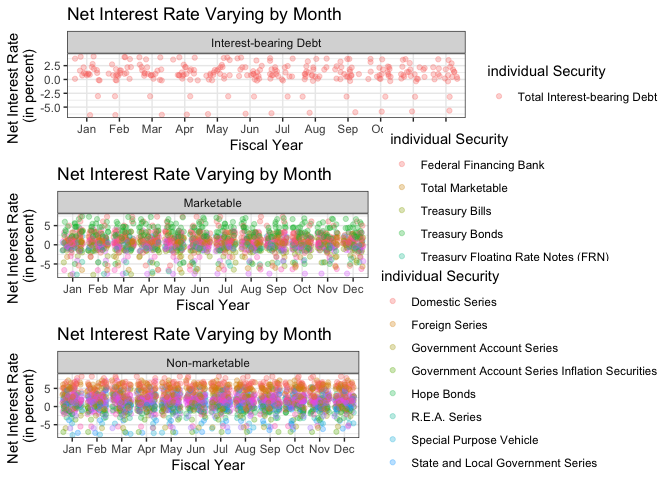
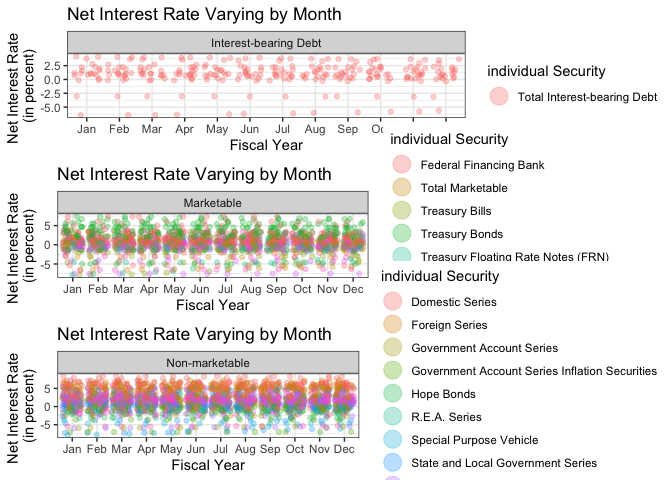
Materials needed for Project 2

diff --git a/README.md b/README.md
@@ -1373,6 +1373,7 @@ deficiencyAndRatesData %>%
         legend.text = element_text(size = 6),
         legend.title = element_text(size = 6),
         axis.text.y.right = element_text(size = 6)) +
+  guides(color = guide_legend(override.aes = list(size = 6))) +
   labs(color = "Type of Security",
     title = "Balance Deficiency Affecting Net Interest Rates",
     x = "Fiscal Year") +
@@ -1439,6 +1440,7 @@ p1 <- ggplot(df$`Interest-bearing Debt`, aes(x = record_calendar_year)) +
         legend.text = element_text(size = 6),
         legend.title = element_text(size = 6),
         axis.text.y.right = element_text(size = 6)) +
+  guides(color = guide_legend(override.aes = list(size = 6))) +
   facet_wrap(vars(security_type_desc)) +
   theme_bw()
 
@@ -1497,6 +1499,7 @@ p1 <- ggplot(df$`Interest-bearing Debt`, aes(x = named_month)) +
         legend.text = element_text(size = 6),
         legend.title = element_text(size = 6),
         axis.text.y = element_text(size = 6)) +
+  guides(color = guide_legend(override.aes = list(size = 6))) +
   facet_wrap(vars(security_type_desc)) +
   theme_bw()
 
@@ -1537,6 +1540,7 @@ interestAndInflationRates %>%
         legend.text = element_text(size = 6),
         legend.title = element_text(size = 6),
         axis.text.y = element_text(size = 6)) +
+  guides(color = guide_legend(override.aes = list(size = 6))) +
   labs(title = 'How the Inflation Rates and Interest Rates were in the Year: {frame_time}', 
        x = 'Inflation Rate \n(in percent)', 
        y = 'Interest Rate Offerred \n(in percent)') +
